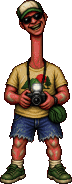
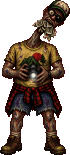
Fotograf: zlomeny krk morbidne (2 stupne), polaroid bez stromu, Tichak test na myteine
- krk po 2 zasazich: natazeny a zlomeny, hlava visi na stranu, jedno oko vypoulene za
  prasklymi bryllemi, pusa nacpana fotkami, mrtvolna kuze s modrinami (Grok, prompts
  ph_neck2*); po 4 zasazich krk povoli: z limce pahyl, hlava visi vzhuru nohama u
  bricha a rve fotky (ph_neck2.png); misto vesele karikatury
- vsechny pozy v jedne hustote pixelu (140 px = 1.9 m), kontrolka na fotaku i u obou krku
- polaroid z dalky foceny nejvys z 5.5 m (stejny vyrez teleobjektivem): stromy nemaji
  kolizi a jeden byl na fotce; blesk zustava venkovni
- silentman_shots: krk za rohem na vykacene myteine (stromy se kazdou hru generuji
  jinde), strop drzeny na snimek

diff --git a/DESIGN.md b/DESIGN.md
@@ -221,7 +221,7 @@ know where it is:
 | Enemy | Eyes |
 | --- | --- |
 | Silent Man | his glasses: two round lenses glinting a dull yellow, nothing behind them, a little too far apart, never blinking; now and then a light runs over the glass, one lens then the other. They sit on his glasses in every piece of art (tilted with his head) and flare white in your torch before he comes apart |
-| The Photographer | one eye, the lens: a cold blue ring with a light in it; the red focus lamp blinks in its middle |
+| The Photographer | no eyes (his own chest lamp lights his face; 21. 10.: no ring over it): the red lamp of his camera, a point where the camera is in each pose, blinking; your torch on it, the lens throws it back white |
 | The Girl | her eyeshine: two pale points, each blinking on its own, one a little higher, only where the torch points but does not reach (to 45 m); nearer, bigger and wider apart (her face stretching). The terror pass (20. 10.): when your torch dies near her she takes her step in that dark and you see her eyes there, nearer; while your torch holds her, a second pair of her eyes opens off to one side with a soft giggle (look and it is gone, and she has moved); under a lamp she goes round the edge of its light towards your back; the drone and the heart as she comes; while you hold her, for two frames now and then her head is upside down on her neck; far off, her laugh slowed into something low. **Her strike** (4.5 s, nothing you can do): she lunges out of the dark, claws at the lens; her hands close round your head and pull you to the drooling grin; her head snaps all the way over; her face splits down the middle, the inside and rows of teeth between the halves; the rings of teeth come over you (the bite, red, blood running down the lens); black, your heart stops, only the ring and her chewing; you come to on the ground, the picture on its side, and she stands out there with her head upside down and red eyes, laughing slowed down; a blink and her upside-down face is in yours. The cursed pass (20. 10.): her eye an inch from yours before the lunge; after the bite she drags you along the ground by the head, in jerks; under a lamp, after a while, a ring of her eyes opens all round the edge of the light, one pair after another, giggles over each other, a flash of dozens of her standing in the trees, then all of them go out but one, behind you; far off, found again, she stands upside down (hanging from nothing) or far too tall; close and unseen, her teeth chattering; found nearer, two frames of the face she pretends with (a smile ear to ear); for forty seconds after she has had you, her face for a frame now and then, even with her gone. **Indoors** she cannot hurt you and wants you out: her humming through the wall; heels going round outside; a giggle and three slow knocks; her at the window you look at, pressed to the glass, her eyes lit, two frames of the smile; her teeth chattering behind the wall; then a guest's night instead (a Cheap Chick first). Out again, she begins far off |
 | The Antlered Man | deer eyeshine in the skull's sockets, pale green, high, far apart; both go out together now and then |
 | The Basket Man | two wet red points deep in the hood, close together, swinging slowly over the ground |
@@ -231,7 +231,7 @@ know where it is:
 | Enemy | From | Tell | Counter | Punishes |
 | --- | --- | --- | --- | --- |
 | Silent Man | Quiet Guy | footsteps on the gravel behind you, closer each time, stopping when you stop; a whisper at your ear | turn round and put light on him; under a lamp he will not come nearer; at the whisper, turn round at once | standing still in the dark |
-| The Photographer | Drunk | always there: he hums wherever he is, a weak lamp on his chest strap and the camera's red standby blink; he walks from spot to spot in plain view (steps, the film wound on as he stops), raises the camera, the focus beeps speed up, the flash whines (~2-3 s); a shot every 7-10 s | turn your back or get behind something before the flash; indoors draw the curtains (every building's windows look out for real, scripts/ui/window_portal.gd) | looking at him when it fires, or an open window you can see when he fires through it: a lot of health (16-26), a white blast, ringing ears, his face burnt in (lenses grown into the sockets, or peeling like a wet print); the picture is real: it slides in at the corner and develops, you from his lens (every third, him right behind you in it); two hits and his neck is broken and he still aims; three and he runs at you from behind, laughing, and fires at your ear; the last picture stops the frame, his lens-face comes at you in steps and your own face develops in the middle of the screen |
+| The Photographer | Drunk | always there: he hums wherever he is, a weak lamp on his chest strap and the camera's red standby blink; he walks from spot to spot in plain view (steps, the film wound on as he stops), raises the camera, the focus beeps speed up, the flash whines (~2-3 s); a shot every 7-10 s | turn your back or get behind something before the flash; indoors draw the curtains (every building's windows look out for real, scripts/ui/window_portal.gd) | looking at him when it fires, or an open window you can see when he fires through it: a lot of health (16-26), a white blast, ringing ears, his face burnt in (lenses grown into the sockets, or peeling like a wet print); the picture is real: it slides in at the corner and develops, you from his lens (every third, him right behind you in it); two hits and his neck is snapped, the head hanging off it sideways, the mouth stuffed with photographs, and he still aims; four and it has let go (the collar an empty stump, the head upside down at his belly, screaming); three and he runs at you from behind, laughing, and fires at your ear; the last picture stops the frame, his lens-face comes at you in steps and your own face develops in the middle of the screen |
 | The Girl | Cheap Chick | far off, eyeshine: where your torch points but does not reach, two small pale points where her eyes are, each blinking on its own; a woman humming; heels scurry on the gravel while you are not looking, and a sting when you find her again nearer; close, the torch dies in your hand for a moment by itself (her face is there for a frame, once a loop all of it) | she moves only while you do not see her, and in the dark you see her only in light (the torch on her, a lamp near her, or very close): keep her lit and in view, back to a lamp (she never steps into its light; stay under it ~18 s and she gives the loop up); never walk towards her (the torch dies more often, and in each dark she is a step nearer) | looking away, letting the light leave her; the torch drains five times over while it holds her; look away ~3.5 s and she may be right behind you when you turn (face to face, the jump: back off). Always the guest's own colours, only deformed: the guest -> fixed smile, white eyes -> legs too long, flushed cheeks -> neck and arms stretched -> her back to you, face turned round -> arms to the ground. Strike: you cannot look away; her drooling face, then stretched long, then the jaw dropped too far; the shriek in static; black and a ring. Leaves a red heel |
 | The Whistler | Tramps | a campfire tune whistled out in the trees, moving | do not walk towards it; stand under a lamp until the tune breaks off | following the sound into the dark |
 | The Extra Child | Family | a child humming among the tents, back turned | torch off, walk past, never shine the light on it | looking at it with the torch |
